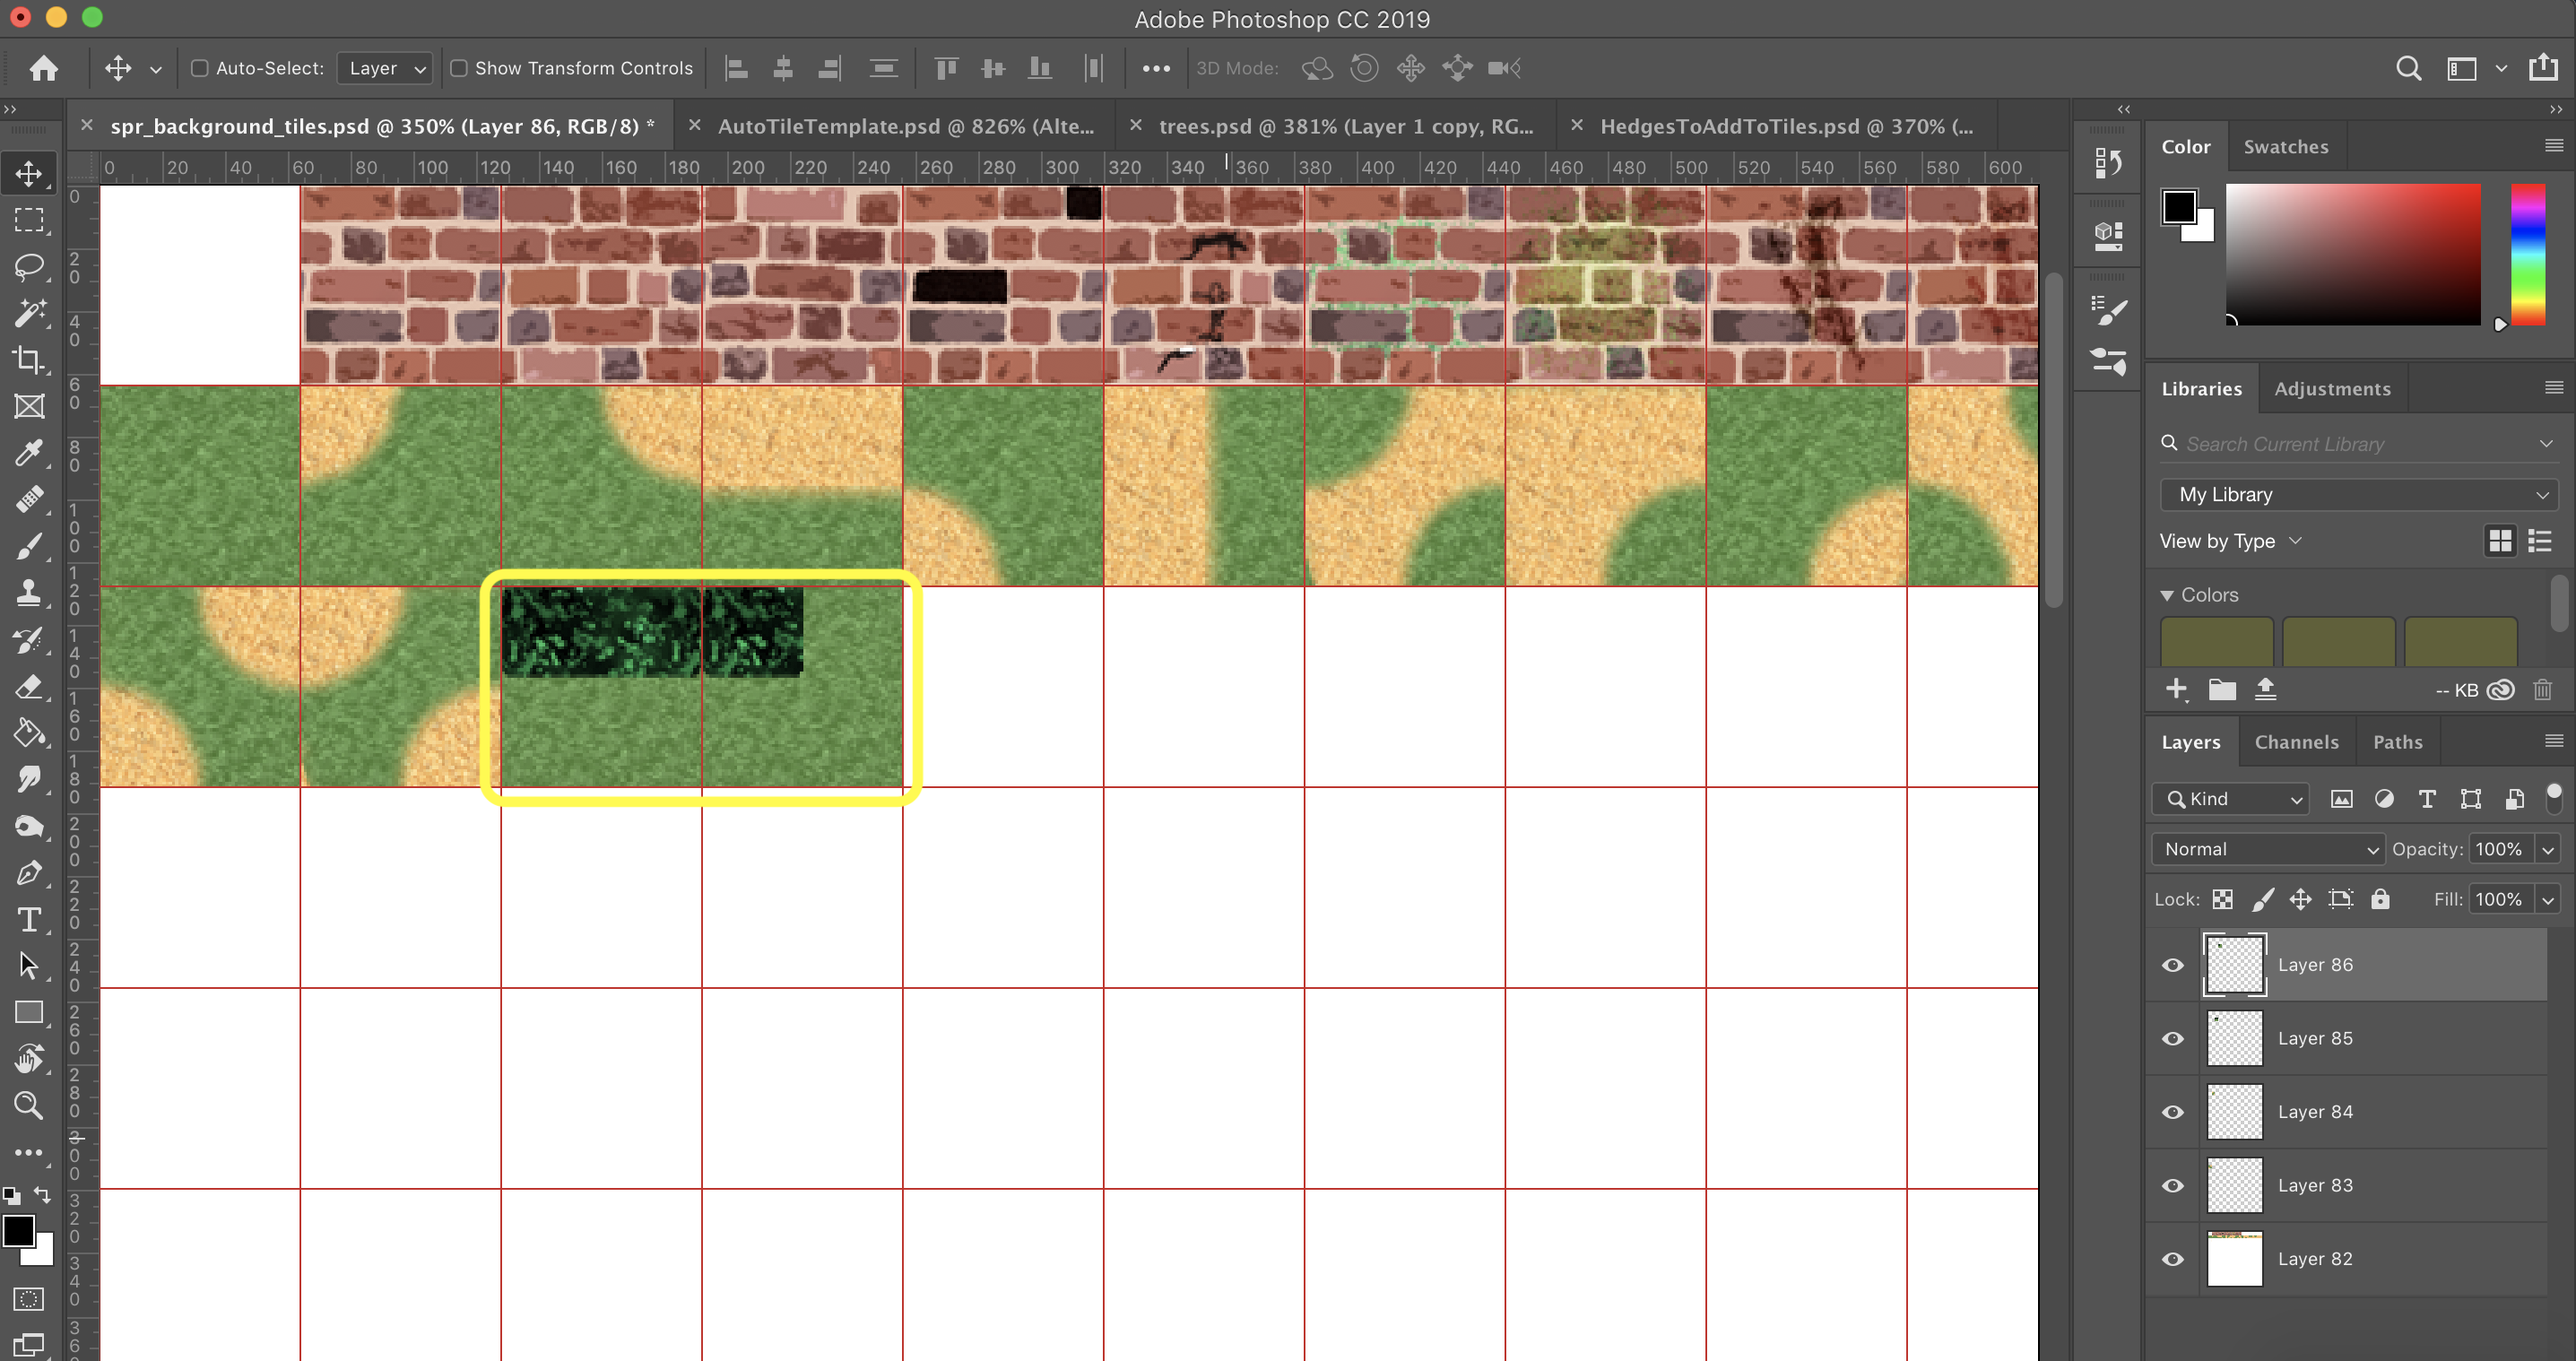
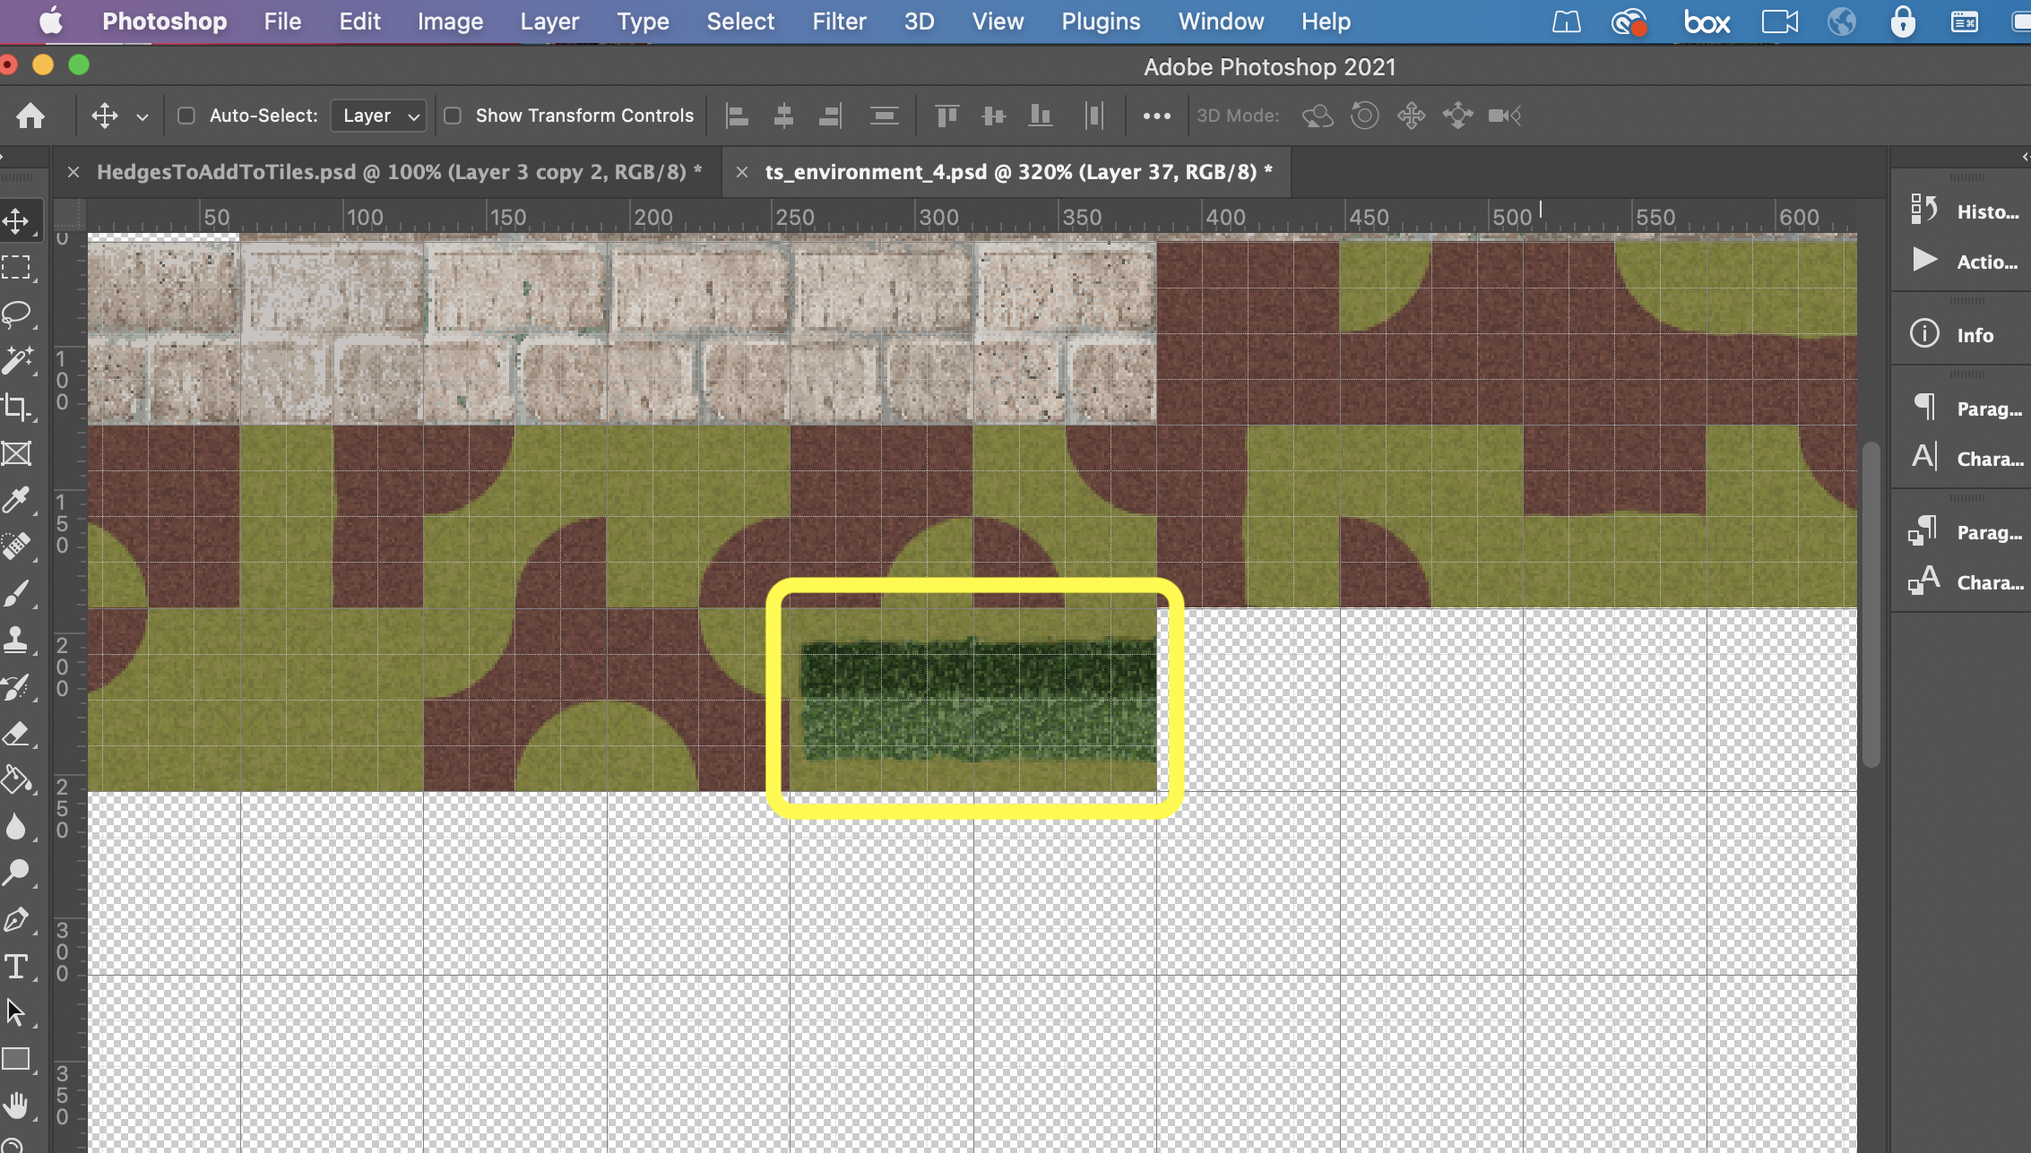
Update updating backgrounds

diff --git a/tile-brushes/README.md b/tile-brushes/README.md
@@ -23,7 +23,7 @@ There are some simple tricks to making it look like we have more art than we do.
 
 ##### `Step 2.`\|`BTS`|:small_blue_diamond: :small_blue_diamond: 
 
-Copy both of these tiles and add them to your tilesheet.
+Duplicate **ts_environment_3.psd** and call the new file `ts_environment_4.psd`. Copy both of the tiles above and add them to the end of your tilesheet. Remember to always leave the first slot empty.
 
 ![Copy both frames into your tilesheet](images/CopyPasteHedgestoTilesheet.png)
 
